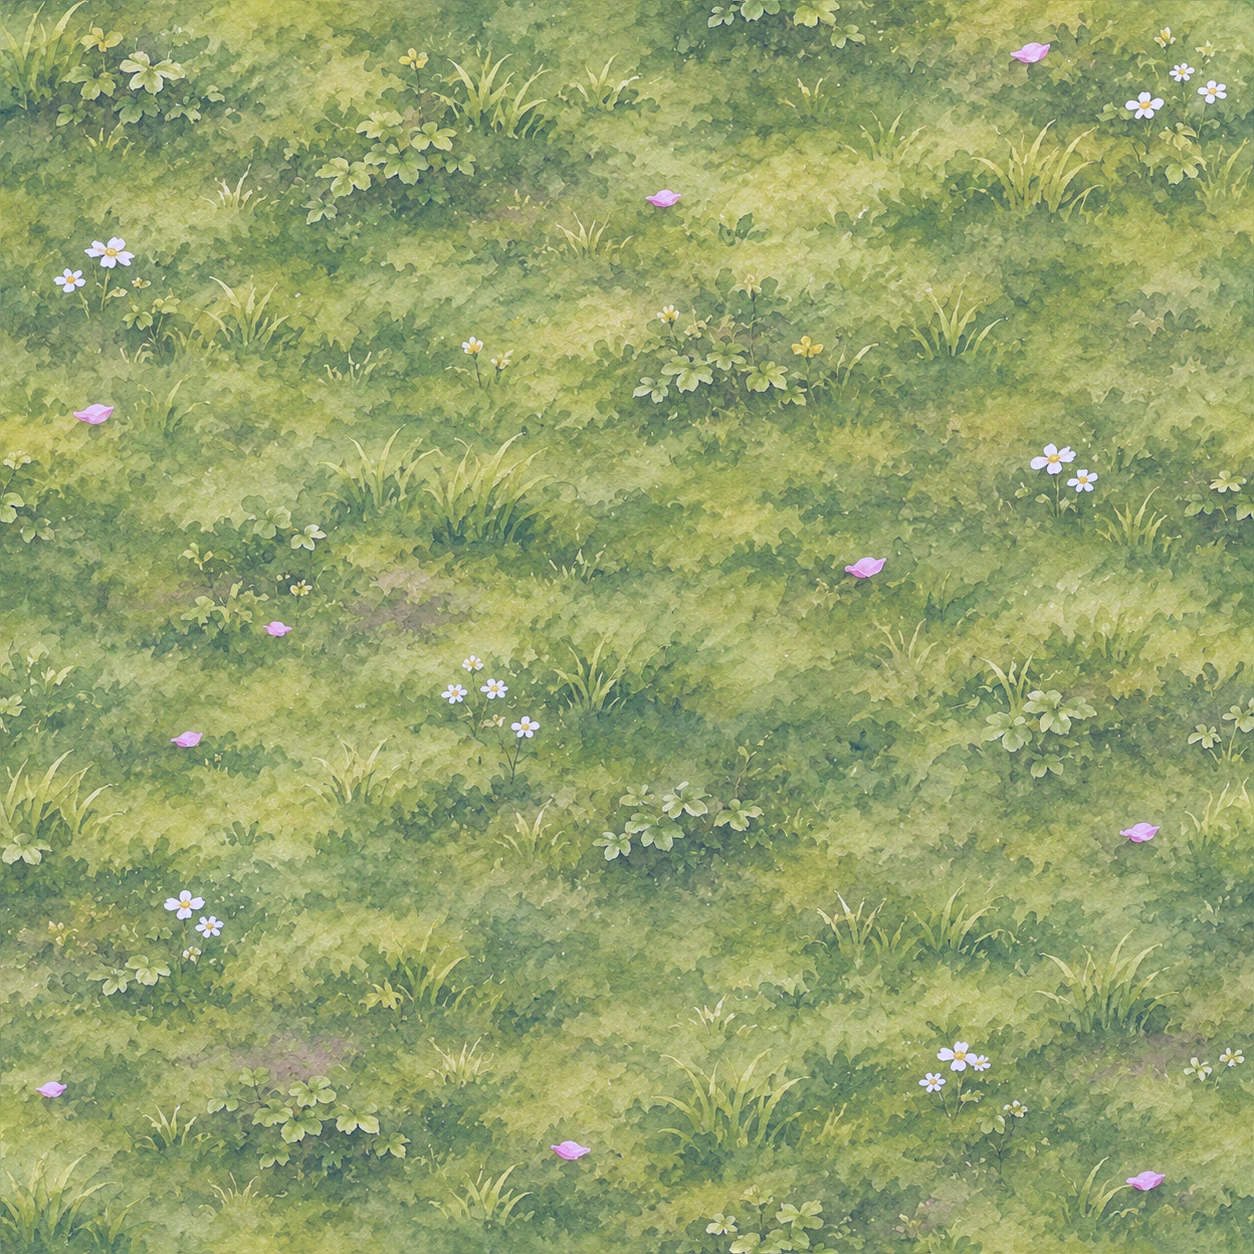
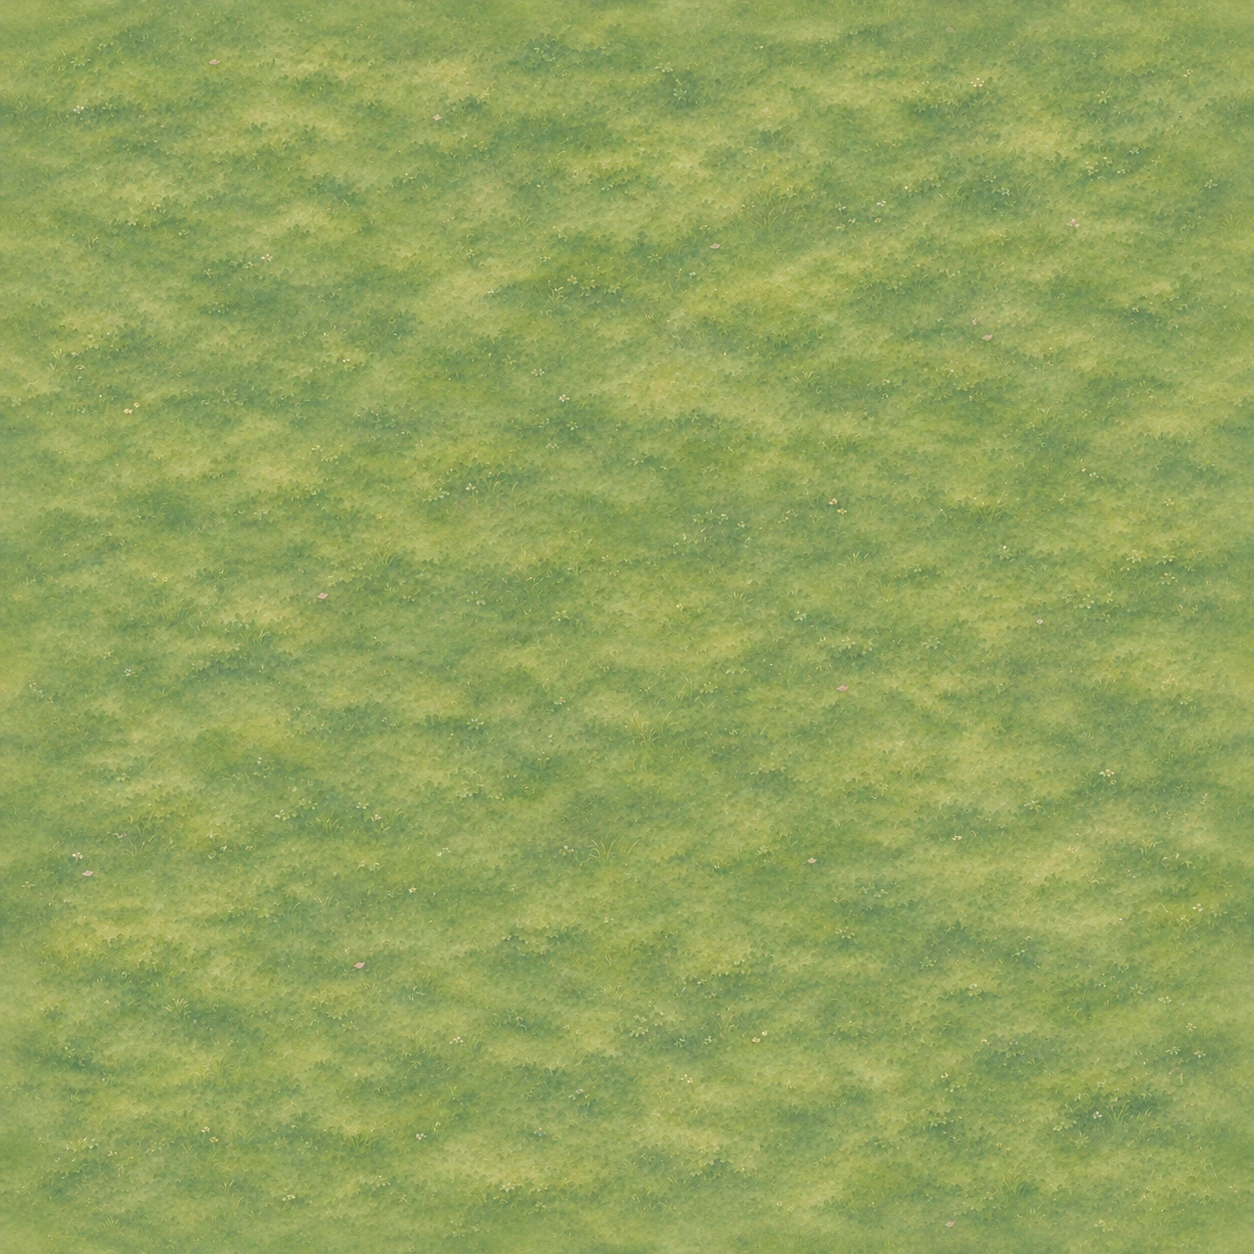
V3 Layer 1A: replace oversized grass detail with fine-scale Grass 02
Adopt user-selected fine-grain grass as V3 default, keep source PNG and archived grass 01, use pixel-equal repeating edges at unchanged 440-unit world alignment, refresh legacy compact preview provenance, add comparison selector to 25-tile review, and pass smoke/browser QA. V2 game unchanged.

diff --git a/layer2-all-assets-v3.html b/layer2-all-assets-v3.html
@@ -4,7 +4,7 @@
 <meta charset="utf-8">
 <meta name="viewport" content="width=device-width,initial-scale=1">
 <meta name="theme-color" content="#eee7d6">
-<title>Yangzhou V3 — All 18 Layer 2 assets | 25 connected tiles</title>
+<title>Yangzhou V3 — Fine-scale Layer 1 grass and all 18 Layer 2 assets | 25 tiles</title>
 <style>
 :root{color-scheme:light;--ink:#33483f;--muted:#627367;--cream:#fcf8ed;--line:#c6c1ac}
 *{box-sizing:border-box}
@@ -41,10 +41,14 @@ code{font-size:.86em}footer{border-top:1px solid var(--line);padding:17px 0;marg
 <p><a href="layer2-seven-new-assets-v3.html">Previous 4×4 candidate proof</a> · <a href="layer2-integrated-v3.html">Certified courtyard prototype</a> · <a href="index.html">Playable V2 (unchanged)</a></p>
 <h1>Yangzhou V3 · All Layer 2 sprites together</h1>
 <p class="intro">A genuine <strong>5 × 5 connected tile neighbourhood</strong> using all <strong>18 original large-detail sprites</strong> (eight previously certified, seven recent candidates, three latest candidates). A 44-unit street crosses an 88-unit canal at the authentic water-backed bridge. The south bank has its own correctly oriented landing; gardens contain the new plum blossom, and courtyard halls connect to shallow entrance steps.</p>
-<div class="note"><strong>Art review, not game deployment.</strong> All artwork is kept compass-upright and owned by its tile. Original approved paintings, wall textures and Layer 1 geometry are unchanged. The new Plum Blossom Tree, Courtyard Entrance Step and South-Bank Landing are candidates awaiting your visual review; the redundant side-wall moon-gate bitmap remains retired.</div>
+<div class="note"><strong>Fine-scale Layer 1 grass trial.</strong> The new, much finer ground painting is the default across all 25 connected tiles. Use the <strong>Grass texture</strong> selector to compare it against the preserved original without moving or changing any Layer 2 sprites. Stone, water, road widths and walls are unchanged. This is an artwork review, not production certification.</div>
 <div class="toolbar" aria-label="Layer 2 review controls">
  <button type="button" id="zoomOut">− Zoom</button><button type="button" id="zoomIn">+ Zoom</button>
  <button type="button" id="zoomReset">Fit 1×</button><strong id="zoomText">1×</strong>
+ <label for="grassVersion">Grass texture <select id="grassVersion" aria-label="Grass texture comparison">
+  <option value="fine">Fine grass v2 (new default)</option>
+  <option value="original">Original grass v1 (comparison)</option>
+ </select></label>
  <label><input type="checkbox" id="showGrid" checked> Tile boundaries</label>
  <label><input type="checkbox" id="showCertified" checked> 8 certified assets</label>
  <label><input type="checkbox" id="showSeven" checked> 7 recent candidates</label>
@@ -54,7 +58,7 @@ code{font-size:.86em}footer{border-top:1px solid var(--line);padding:17px 0;marg
 </div>
 <div id="loadStatus" class="status" role="status" aria-live="polite">Checking the 18 source-verified V3 sprites, original ground paints and wall materials…</div>
 <h2 id="neighbourhood">Connected 25-tile composition</h2>
-<p class="intro">Select a tile to inspect its road/canal ports and exact placed assets. You can zoom to 3×, disable any artwork group, or select one asset family to highlight every occurrence.</p>
+<p class="intro">Select a tile to inspect its road/canal ports and exact placed assets. Compare fine grass v2 with the original grass v1 using the selector above; zoom to 3× to examine ground-detail scale and repetition alongside the unchanged buildings, canal and road.</p>
 <div class="viewport"><canvas id="scene" width="2200" height="2200" aria-label="Twenty five connected Yangzhou V3 tiles with 18 distinct large-detail painted sprites, continuous roads and canals, courtyard walls and true moon gates"></canvas></div>
 <div class="legend">
  <span><i class="dot" style="background:#d5d8bf"></i> Garden and courtyard</span>
@@ -107,7 +111,7 @@ const palette={pathVerge:'#b7a58b',pathContact:'#84947c',canalBank:'#b5a38a',can
 const fallback={grass:'#d6d8bc',stone:'#d4c8ac',water:'#8dad9e'};
 const images={},textures={},wallPaints={},errors=[];
 let catalog=[],verificationCount=0,roofImage=null,pavingImage=null,walkwayImage=null,gateImage=null,plan=null;
-let zoom=1,grid=true,showCertified=true,showSeven=true,showThree=true,showWalls=true,showBridgeGuides=true,highlight='';
+let zoom=1,grid=true,showCertified=true,showSeven=true,showThree=true,showWalls=true,showBridgeGuides=true,highlight='',grassVersion='fine',previousGrass=null;
 const titles={
  'hall-step':'Courtyard hall and steps','courtyard-wing':'Courtyard wing','vertical-canal':'Straight canal',
  corridor:'Covered corridor','rockery-one':'Rock garden',shopfront:'Street shopfront',
@@ -120,7 +124,8 @@ const titles={
  'willow-garden':'Willow garden','rockery-two':'Second rockery','open-garden':'Open garden'
 };
 function pattern(id){
- if(textures[id])try{return materialsLib.makePattern(ctx,textures[id],materialsLib.periodById[id]);}
+ const activeImage=id==='grass'&&grassVersion==='original'&&previousGrass?previousGrass:textures[id];
+ if(activeImage)try{return materialsLib.makePattern(ctx,activeImage,materialsLib.periodById[id]);}
  catch(e){errors.push('Texture pattern '+id+': '+e.message);}
  return fallback[id];
 }
@@ -273,6 +278,12 @@ async function loadSprites(){
 async function loadMaterials(){
  const jobs=[
   materialsLib.loadAll().then(result=>{Object.assign(textures,result.images);render();}),
+  // Retain the verified v1 for intentional side-by-side scale comparison.
+  new Promise((resolve,reject)=>{
+   const old=new Image();old.onload=()=>{previousGrass=old;resolve(old);};
+   old.onerror=()=>reject(Error('Original v1 grass comparison unavailable'));
+   old.src='assets/v3/materials/grass-01-lossless.webp';
+  }).then(()=>{if(grassVersion==='original')render();}),
   roof.loadFromGitHub().then(img=>{roofImage=img;render();}),
   faces.loadAll().then(result=>{Object.assign(wallPaints,result.images);render();}),
   paving.load().then(img=>{pavingImage=img;render();}),
@@ -292,6 +303,7 @@ for(const id of ['showGrid','showCertified','showSeven','showThree','showWalls']
   render();
  });
 }
+$('grassVersion').addEventListener('change',e=>{grassVersion=e.target.value;render();});
 $('zoomIn').addEventListener('click',()=>setZoom(zoom+1));
 $('zoomOut').addEventListener('click',()=>setZoom(zoom-1));
 $('zoomReset').addEventListener('click',()=>setZoom(1));

diff --git a/assets/v3/material-runtime.js b/assets/v3/material-runtime.js
@@ -9,7 +9,7 @@
   'use strict';
   const base='assets/v3/materials/';
   const files=Object.freeze({
-    grass:'grass-01-lossless.webp',
+    grass:'grass-02-lossless.webp',
     stone:'stone-01-lossless.webp',
     water:'water-01-lossless.webp'
   });

diff --git a/scripts/prepare_v3_grass_02.py b/scripts/prepare_v3_grass_02.py
@@ -1,0 +1,42 @@
+#!/usr/bin/env python3
+"""Prepare the approved fine-scale Yangzhou V3 grass as a seamless derivative.
+Original PNG input is never modified. The interior of the artwork is preserved;
+only 72px along each opposing boundary are gently blended. Output WebP is
+lossless from the prepared pixels, not pixel-identical to the untouched PNG.
+Requires Pillow and numpy. Never changes road/canal mask or 440-world repeat.
+"""
+from pathlib import Path
+from hashlib import sha256
+import numpy as np
+from PIL import Image
+
+ROOT=Path(__file__).resolve().parents[1]
+SRC=ROOT/'assets/v3/materials/sources/grass-02-original.png'
+OUT=ROOT/'assets/v3/materials/grass-02-lossless.webp'
[1 lines of base64/hex data omitted]
+assert sha256(SRC.read_bytes()).hexdigest()==SOURCE_SHA, 'Grass v2 source changed'
+im=Image.open(SRC).convert('RGB')
+assert im.size==(1254,1254)
+arr=np.asarray(im,dtype=np.float32).copy()
+H,W=arr.shape[:2]
+fade=72
+for axis in (1,0):
+ n=W if axis==1 else H
+ for i in range(fade):
+  weight=0.5*(1+np.cos(np.pi*i/(fade-1)))
+  if axis==1:
+   aa=arr[:,i,:].copy();bb=arr[:,n-1-i,:].copy()
+   mid=(aa+bb)/2
+   arr[:,i,:]=aa+(mid-aa)*weight
+   arr[:,n-1-i,:]=bb+(mid-bb)*weight
+  else:
+   aa=arr[i,:,:].copy();bb=arr[n-1-i,:,:].copy()
+   mid=(aa+bb)/2
+   arr[i,:,:]=aa+(mid-aa)*weight
+   arr[n-1-i,:,:]=bb+(mid-bb)*weight
+pix=np.clip(np.rint(arr),0,255).astype('uint8')
+assert np.array_equal(pix[:,0,:],pix[:,-1,:])
+assert np.array_equal(pix[0,:,:],pix[-1,:,:])
+Image.fromarray(pix,'RGB').save(OUT,'WEBP',lossless=True,method=6,exact=True)
+assert np.array_equal(np.asarray(Image.open(OUT).convert('RGB')),pix), 'Lossless mismatch'
+print(OUT,OUT.stat().st_size,sha256(OUT.read_bytes()).hexdigest())

diff --git a/scripts/build_v3_courtyard_previews.py b/scripts/build_v3_courtyard_previews.py
@@ -18,7 +18,7 @@ from PIL import Image, features
 ROOT=Path(__file__).resolve().parents[1]
 OUT=ROOT/"assets/v3/previews"
 SOURCE_FILES=[
- ("materials/grass-01-lossless.webp", "grass.webp", None),
+ ("materials/grass-02-lossless.webp", "grass.webp", None),
  ("materials/stone-01-lossless.webp", "stone.webp", None),
  ("materials/water-01-lossless.webp", "water.webp", None),
  ("edges/canal-bank-edge-01.webp", "canal-bank-edge.webp", 1024),

diff --git a/assets/v3/materials/README.md b/assets/v3/materials/README.md
@@ -1,18 +1,27 @@
 # Yangzhou V3 — Accepted candidate material pack
 
-The three user-accepted **candidate** textures are committed in this directory, byte-for-byte, as original lossless WebPs. They are **not** production-approved, visually seam-approved, or historically approved. The first three source PNG paintings are provenance references; the playable laboratory loads the committed WebPs directly.
+The user-selected **fine-scale grass v2** now replaces grass v1 as the default V3 Layer 1A background. Its source PNG is preserved unchanged at `sources/grass-02-original.png`; a narrow 72-pixel repeat-edge feather creates a tileable derivative encoded as **lossless WebP**. The previous `grass-01-lossless.webp` remains in GitHub for comparison and rollback. Stone and canal-water assets remain byte-for-byte unchanged. Material candidates are **not** production-certified, historically approved, or automatically seam-approved.
 
 ## Committed files and exact integrity contract
 
 | Material | Filename | Bytes | SHA-256 |
 | --- | --- | ---: | --- |
[4 lines of base64/hex data omitted]
 
-All three textures are **1254 × 1254 pixels**, RIFF/WebP VP8L (lossless) images. `manifest.json` is the machine-readable source of truth for their exact filenames, byte counts, image dimensions, SHA-256 checksums, material periods and candidate-only approval state.
+All three active textures are **1254 × 1254 pixels**, RIFF/WebP VP8L (lossless) images. The v2 WebP is lossless relative to the seam-prepared derivative, **not** byte-identical to its untouched PNG source. `manifest.json` is the machine-readable source of truth for their exact filenames, byte counts, image dimensions, SHA-256 checksums, material periods and candidate-only approval state.
 
 The `node tests/v3-materials.cjs` test **requires all three files**, verifies their exact bytes/checksums, lossless image signature and dimensions, and checks their runtime/manifest links. Missing or substituted files fail CI; there is no zero-file or partial-file success case. These automated checks establish integrity and geometry, **not** visual seamlessness or artistic acceptance.
+
+
+## Grass v2 source, repeat edges and rollback
+
[1 lines of base64/hex data omitted]
+- Reproducible preparation: `scripts/prepare_v3_grass_02.py`. Symmetrically feather the outer 72 pixels to match opposing edge pixels (the central painting is untouched), then lossless-encode to `grass-02-lossless.webp`.
[1 lines of base64/hex data omitted]
+- Material repeat remains **440 world units**, origin-aligned across all 220×220 tiles. No changes to 44-unit streets, 88-unit canals, actual bridge water underlay, paving, walls or Layer 2 art.
+- Review the [5×5, 18-asset preview](../../layer2-all-assets-v3.html) and choose **Fine grass v2** or **Original grass v1** to compare visual scale. Repeat-edge pixel equality is mechanical validation; human visual seam approval is still pending.
 
 ## Preview and next gate
 
